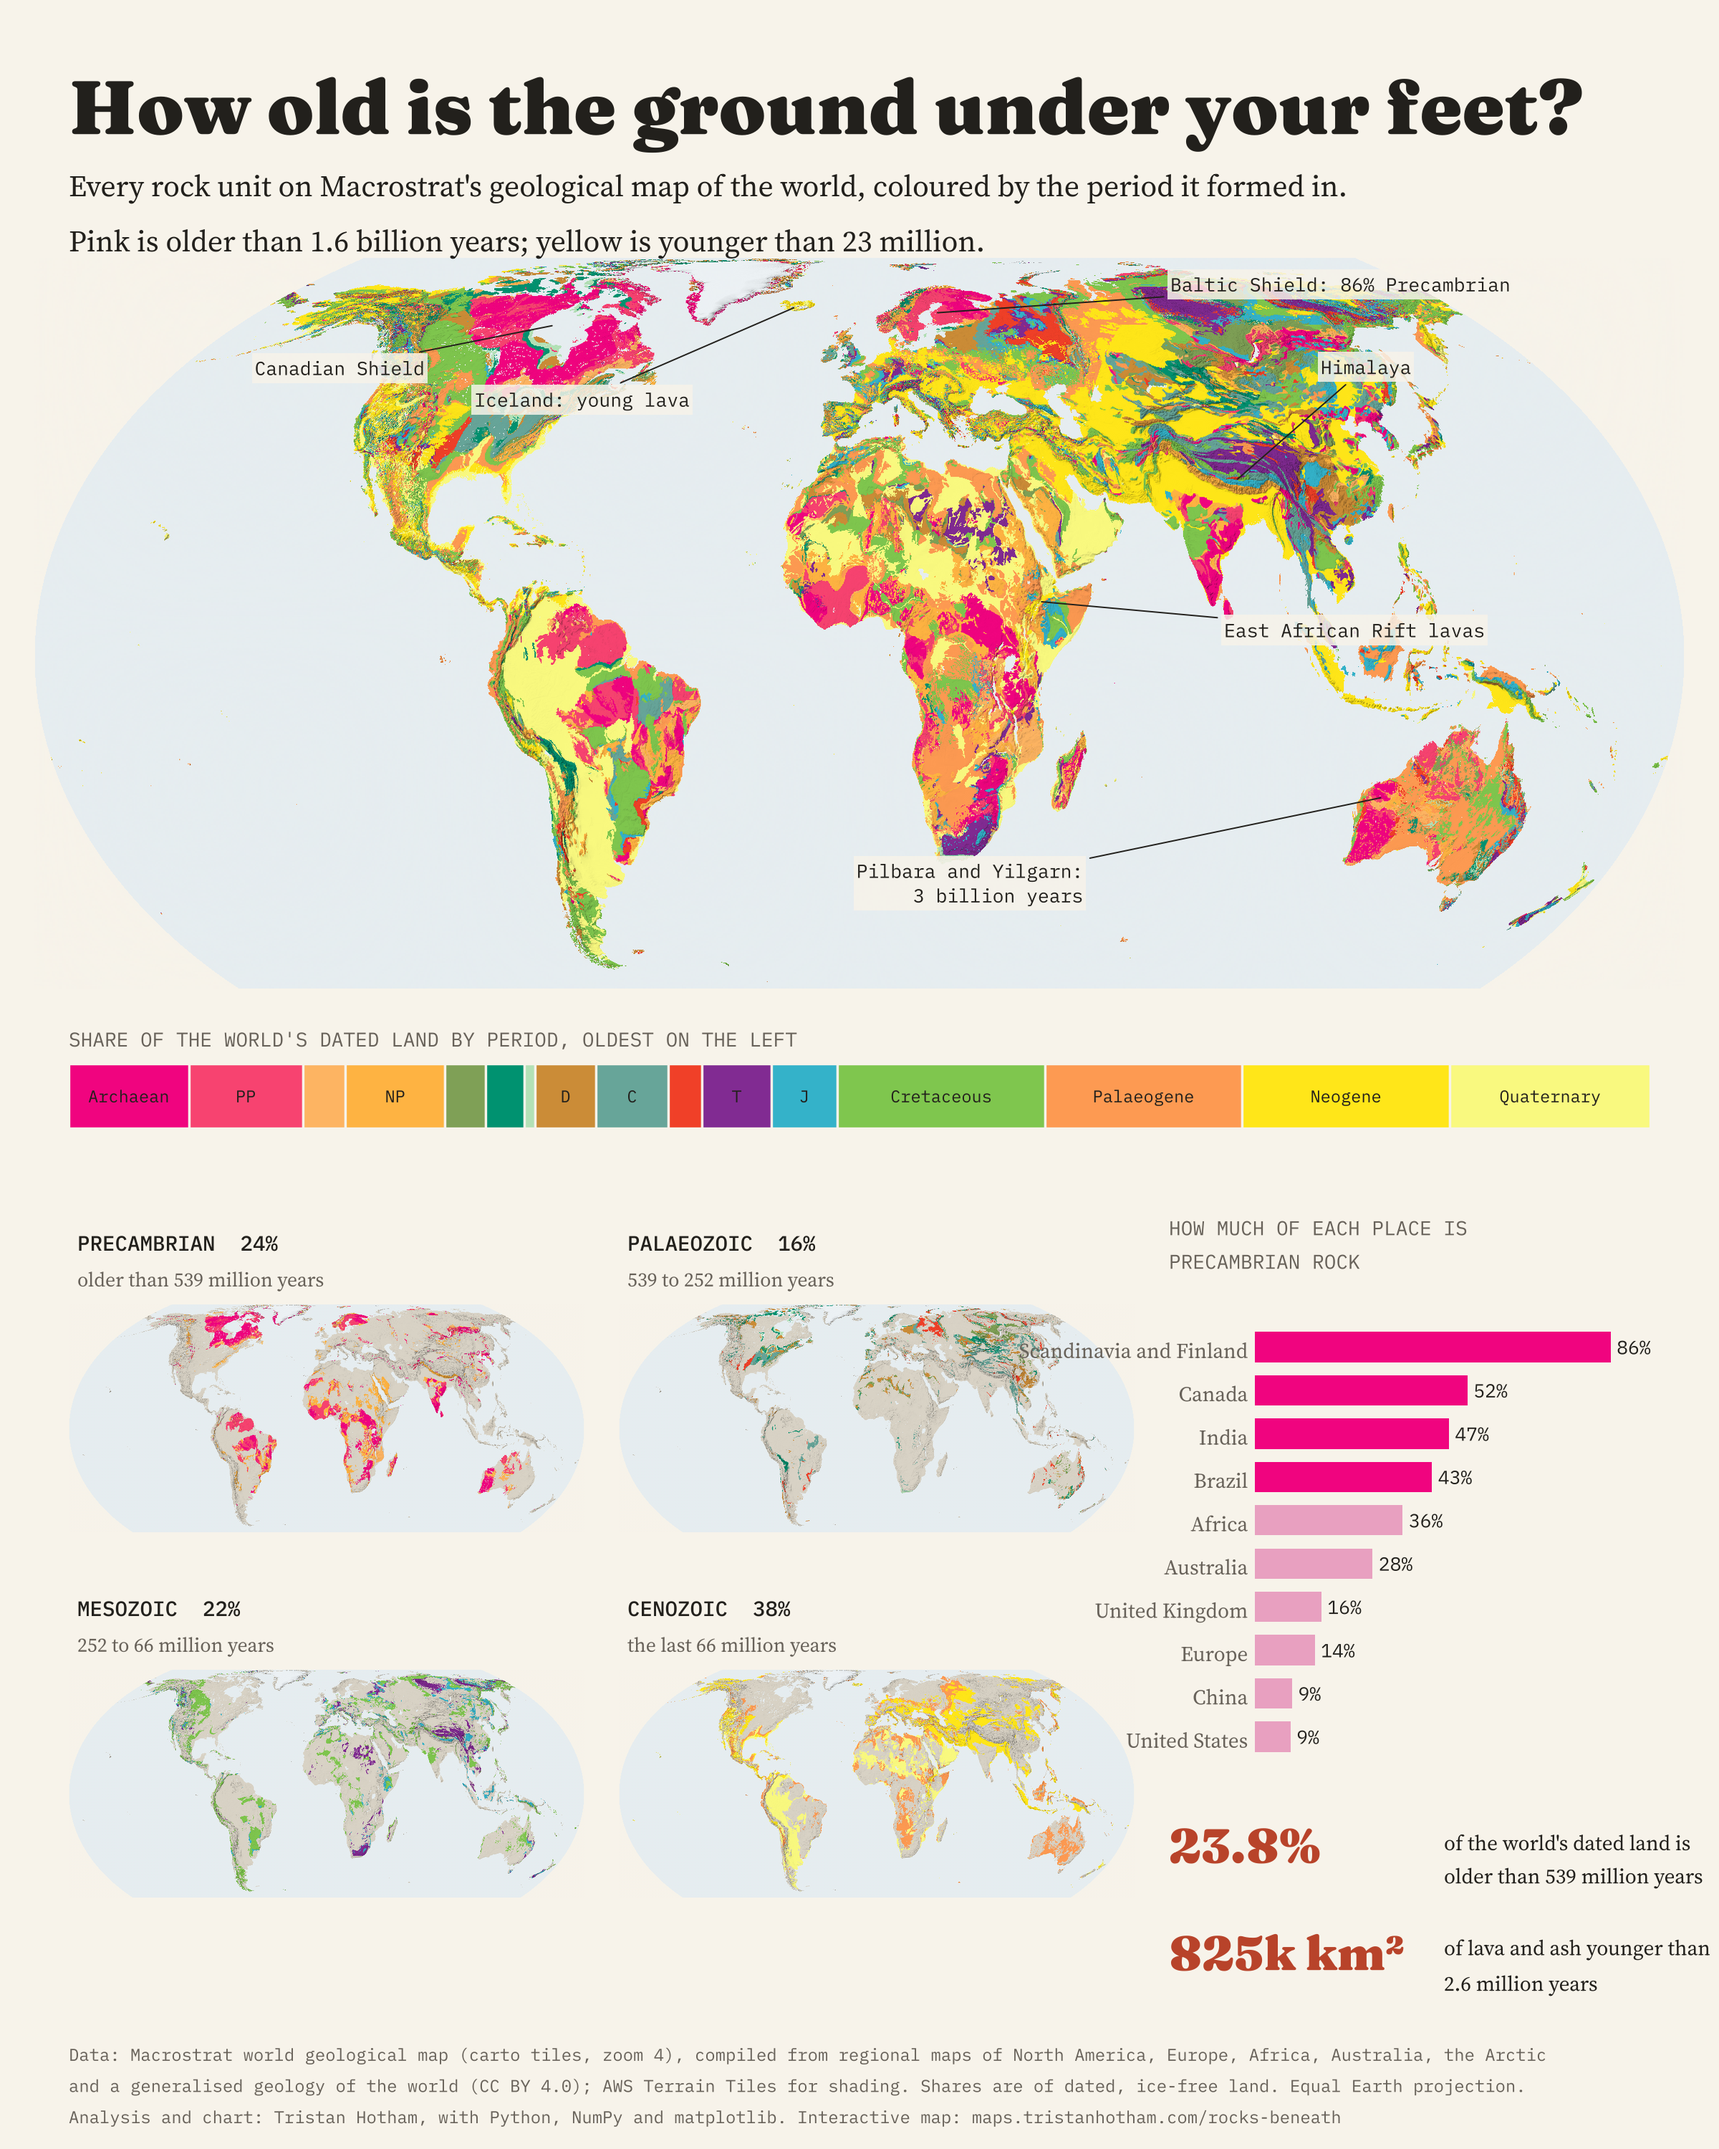
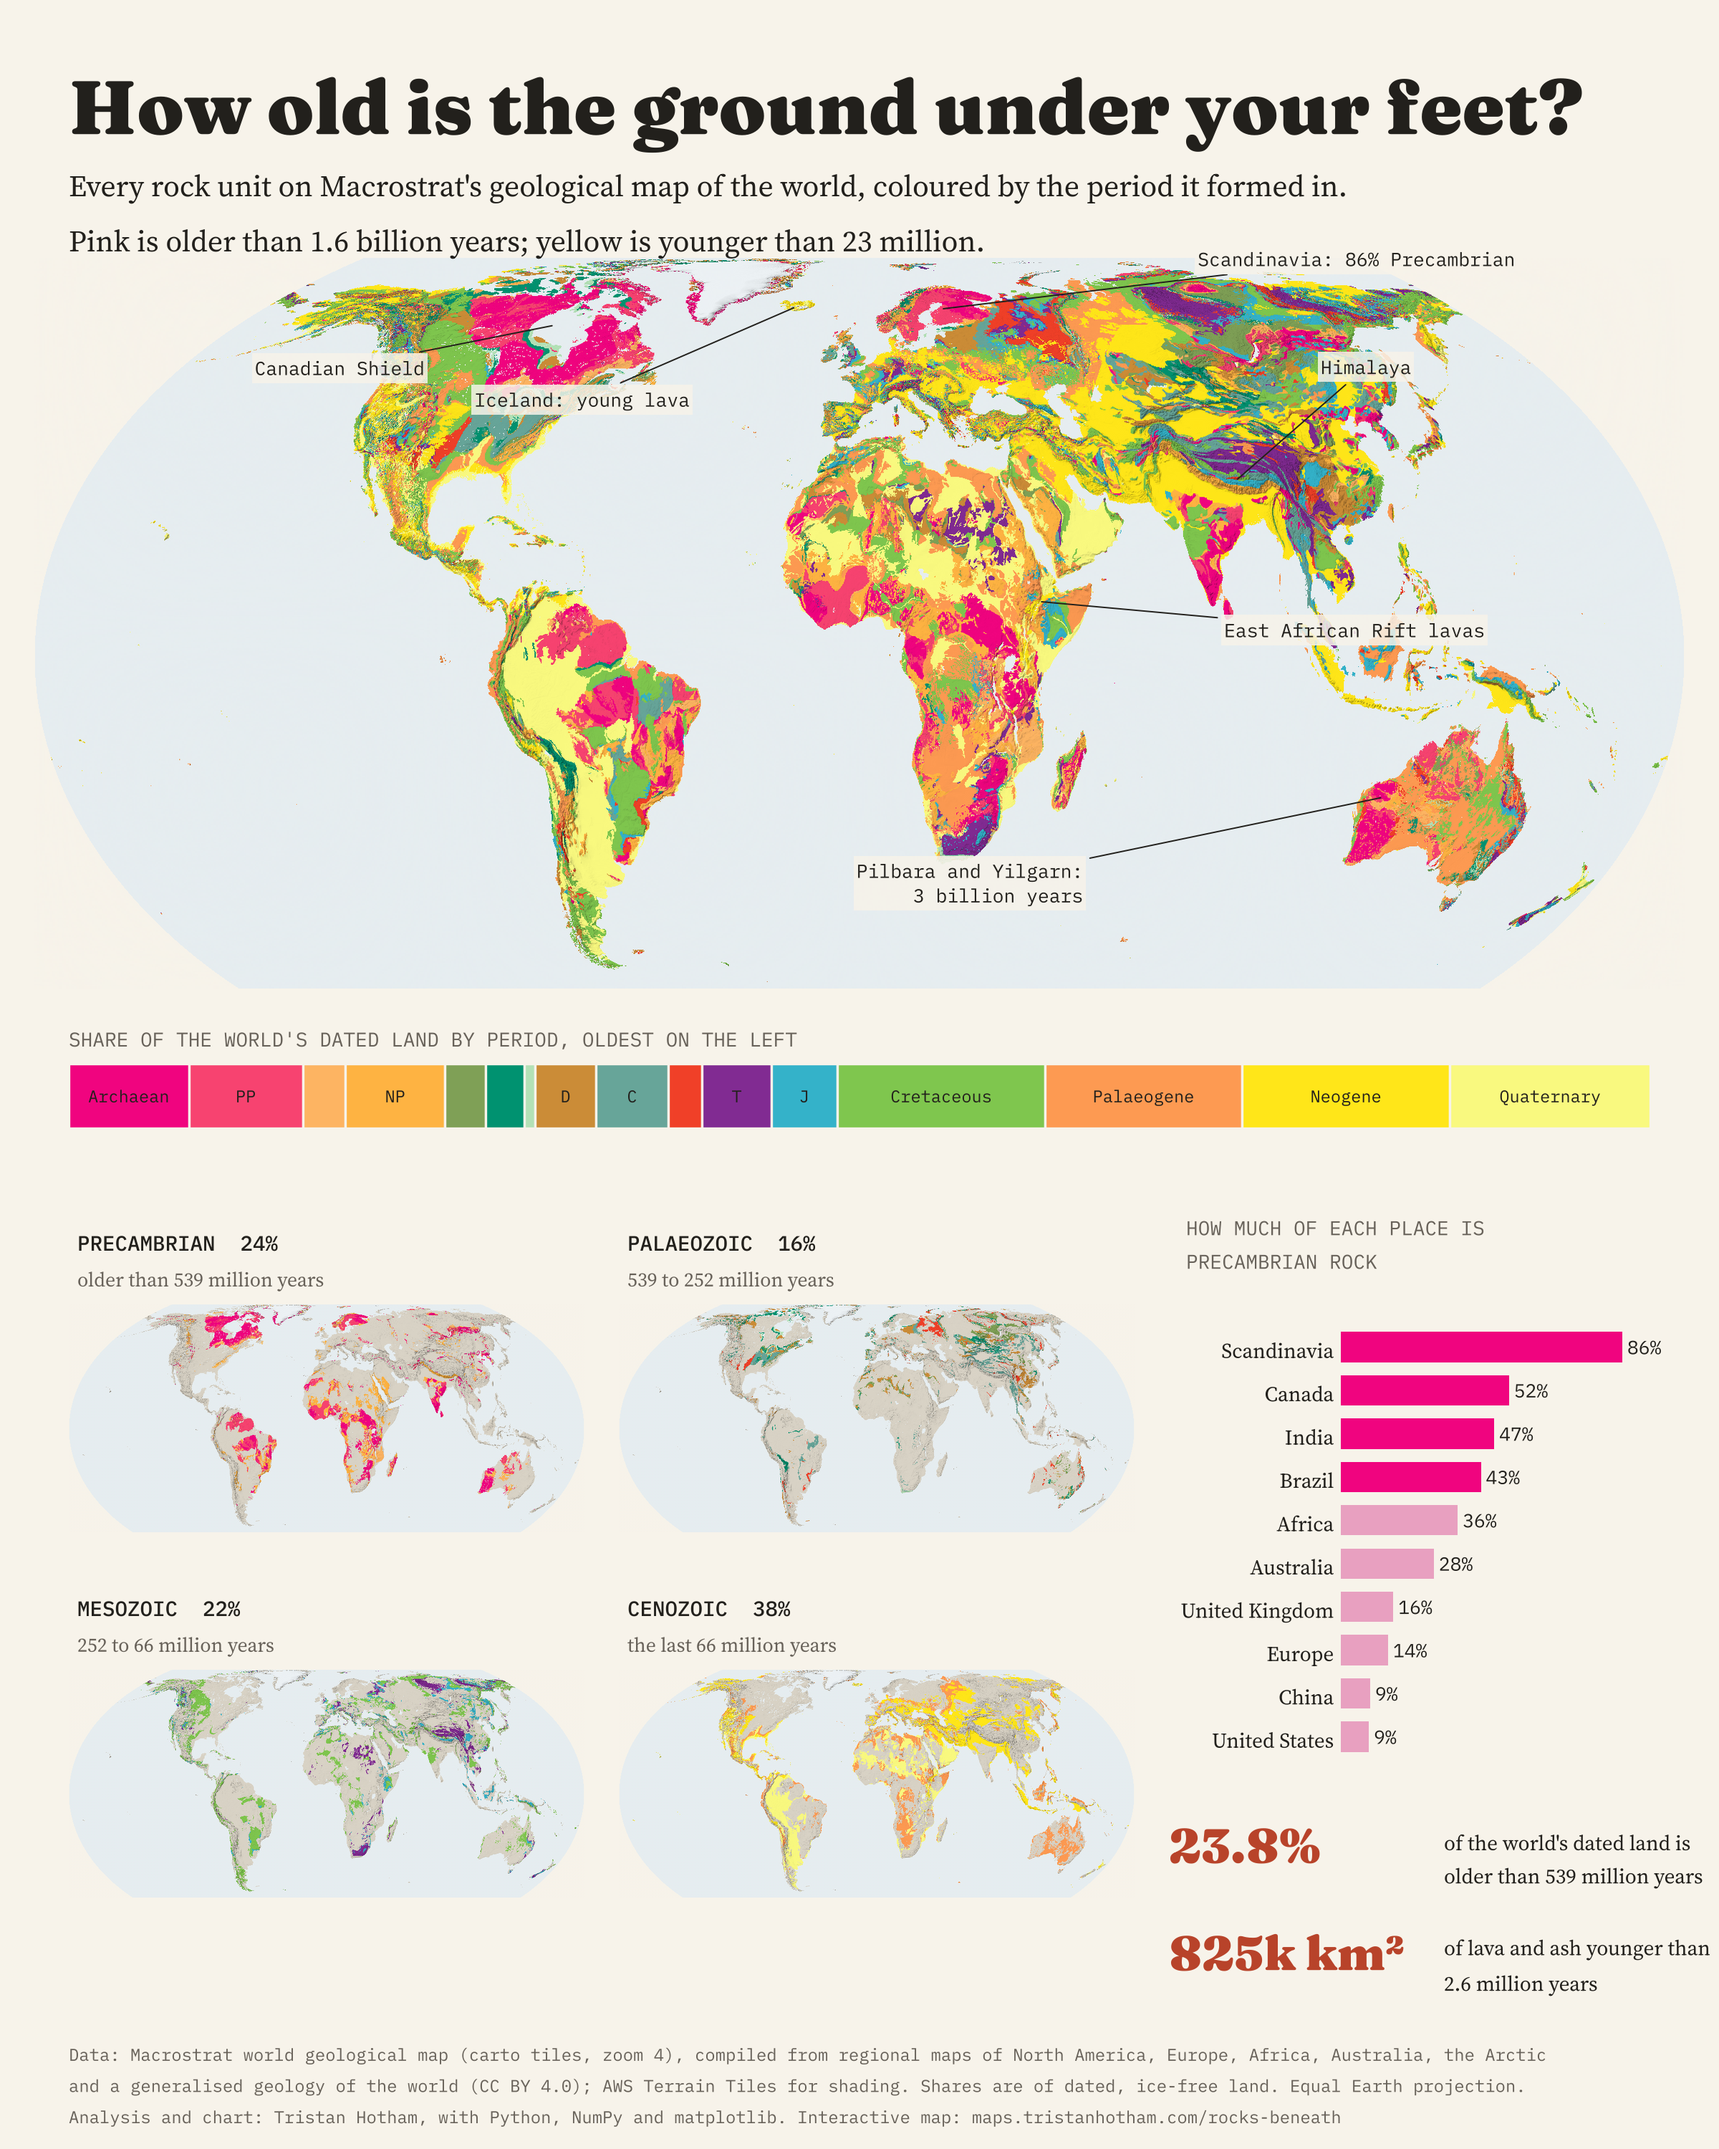
World collage: clearer Scandinavia label

diff --git a/reddit/collage_world.py b/reddit/collage_world.py
@@ -87,7 +87,7 @@ def lab(ax, W, H, lon, lat, text, dx, dy, ha="left"):
     ax.annotate(text, xy=(X, Y), xytext=(X + dx, Y + dy), family=MONO, fontsize=9.5, color=FG, ha=ha, va="center",
                 arrowprops=dict(arrowstyle="-", color=FG, lw=.7), bbox=dict(facecolor=BG2, edgecolor="none", alpha=.85, pad=1.4))
 H0, W0 = big.shape[:2]
-lab(ax, W0, H0, 22, 63, "Baltic Shield: 86% Precambrian", 330, -40)
+lab(ax, W0, H0, 24, 64, "Scandinavia: 86% Precambrian", 360, -70)
 lab(ax, W0, H0, -88, 60, "Canadian Shield", -420, 60)
 lab(ax, W0, H0, 39, 9, "East African Rift lavas", 260, 40)
 lab(ax, W0, H0, -19, 64.8, "Iceland: young lava", -150, 130, "right")
@@ -115,14 +115,14 @@ for (ei, name, sub, ek), (x0, y0) in zip(eras, pos):
     fig.text(x0 + 0.005, y0 + 0.141, sub, family=SER, fontsize=10, color=MUT, va="top")
 
 # shields bar chart
-bx = fig.add_axes([0.73, 0.175, 0.24, 0.215])
-items = sorted([(k.replace(" (Norway, Sweden, Finland)", "").replace("Fennoscandia", "Scandinavia and Finland").replace(" (Macrostrat)", "").replace(" (continent)", ""), v)
+bx = fig.add_axes([0.78, 0.175, 0.19, 0.215])
+items = sorted([(k.replace(" (Norway, Sweden, Finland)", "").replace("Fennoscandia", "Scandinavia").replace(" (Macrostrat)", "").replace(" (continent)", ""), v)
                 for k, v in R["shields"].items()], key=lambda t: t[1])
 bx.barh(range(len(items)), [v for _, v in items], color=[PCOL["A"] if v >= 40 else "#E8A0C0" for _, v in items], height=.7)
-bx.set_yticks(range(len(items))); bx.set_yticklabels([n for n, _ in items], fontsize=10.5)
+bx.set_yticks(range(len(items))); bx.set_yticklabels([n for n, _ in items], fontsize=10.5, color=FG)
 for i, (_, v) in enumerate(items): bx.text(v + 1.5, i, f"{v:.0f}%", va="center", family=MONO, fontsize=9.5, color=FG)
 bx.set_xlim(0, 100); bx.set_xticks([]); bx.spines["bottom"].set_visible(False); bx.spines["left"].set_visible(False); bx.tick_params(length=0)
-fig.text(0.68, 0.405, "HOW MUCH OF EACH PLACE IS\nPRECAMBRIAN ROCK", family=MONO, fontsize=10, color=MUT, va="bottom", linespacing=1.3)
+fig.text(0.69, 0.405, "HOW MUCH OF EACH PLACE IS\nPRECAMBRIAN ROCK", family=MONO, fontsize=10, color=MUT, va="bottom", linespacing=1.3)
 
 # big numbers
 fig.text(0.68, 0.335 + 0.10, "", fontsize=1)
